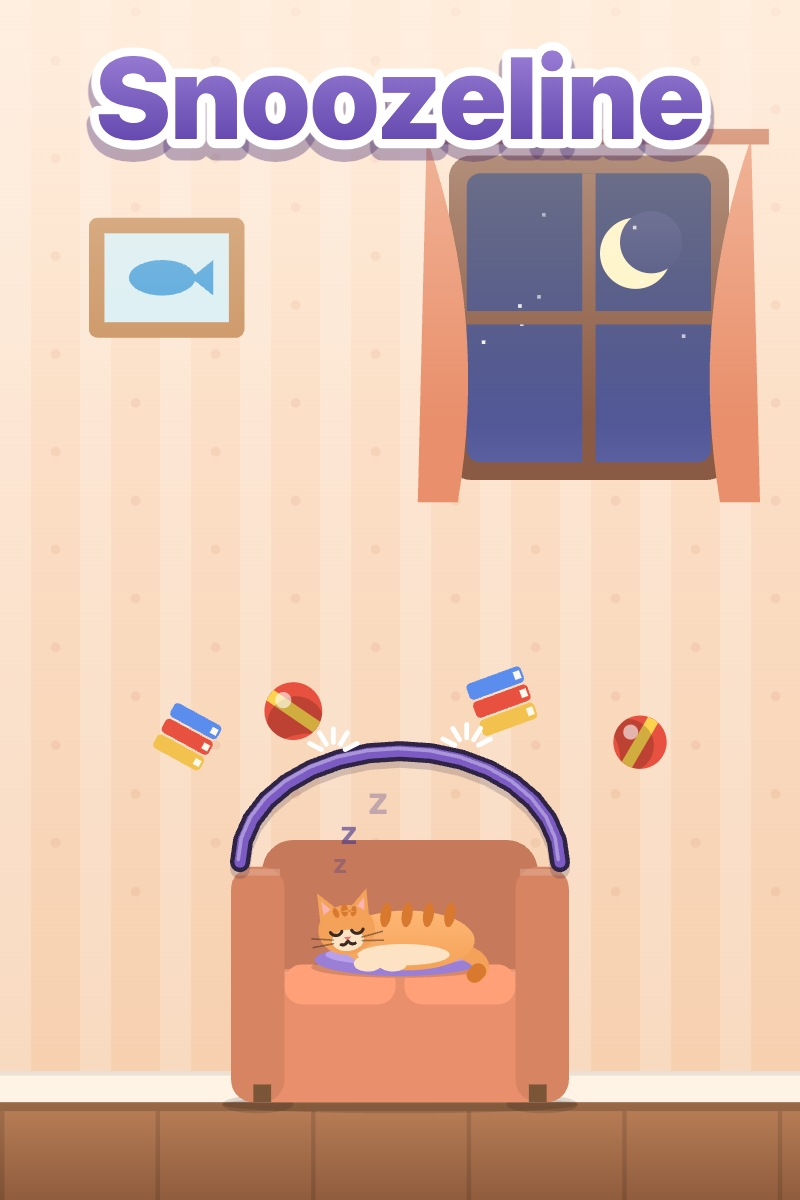
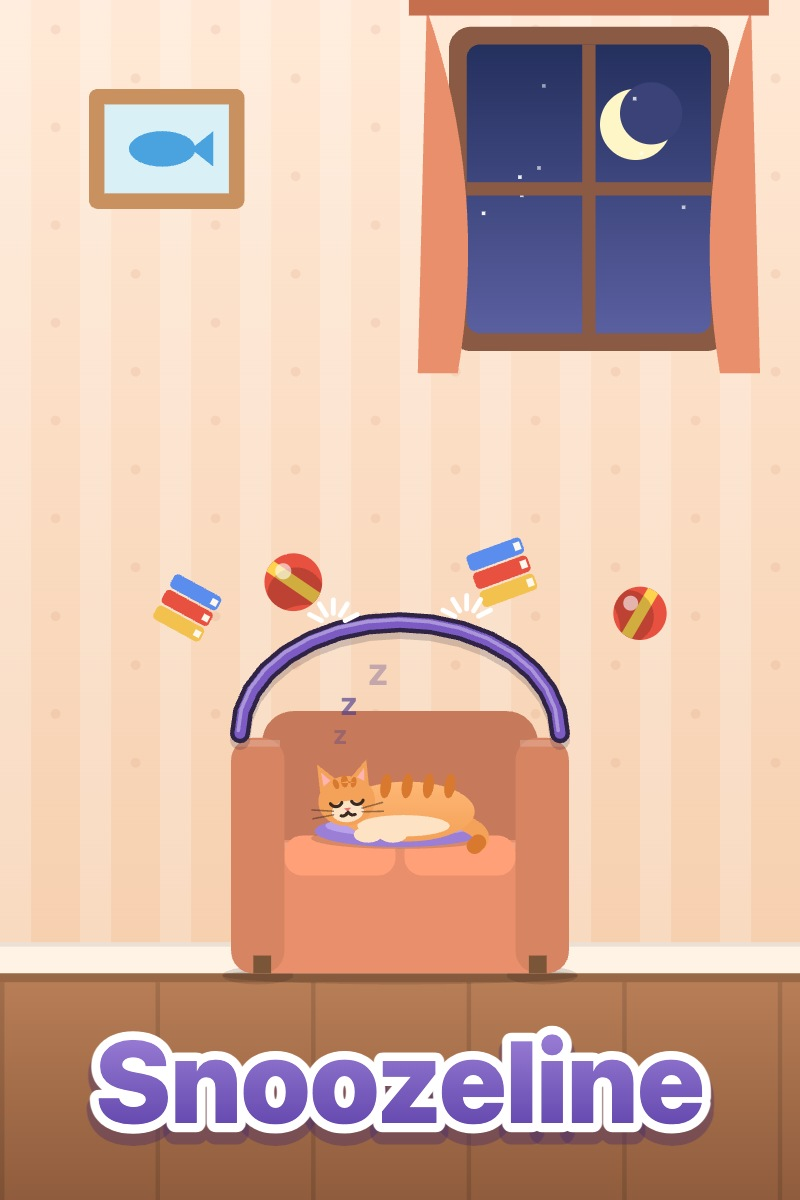
CrazyGames covers: title below their badge zone

diff --git a/promo/cover.html b/promo/cover.html
@@ -11,7 +11,10 @@
   var SLOTS = {
     square: { w: 800, h: 800, cx: 180, cy: 446, vh: 330, ty: 0.12, ts: 0.13 },
     portrait: { w: 1080, h: 1920, cx: 180, cy: 330, vh: 600, ty: 0.072, ts: 0.12 },
-    portrait23: { w: 800, h: 1200, cx: 180, cy: 322, vh: 540, ty: 0.085, ts: 0.12 }, // CrazyGames 2:3
+    // CrazyGames puts its badges (NEW, HOT...) in the top-left corner ("label zone"): their title sits on the floor instead
+    portrait23: { w: 800, h: 1200, cx: 180, cy: 380, vh: 540, ty: 0.905, ts: 0.12 },
+    cg_square: { w: 800, h: 800, cx: 180, cy: 466, vh: 360, ty: 0.9, ts: 0.13 },
+    cg_landscape: { w: 1920, h: 1080, cx: 180, cy: 463, vh: 360, ty: 0.915, ts: 0.11 },
     landscape: { w: 1920, h: 1080, cx: 180, cy: 450, vh: 340, ty: 0.12, ts: 0.11 }
   };
   function scene(ctx) {
@@ -59,13 +62,15 @@
     scene(ctx);
     ctx.setTransform(1, 0, 0, 1, 0, 0);
     // soft vignette so the title reads well
-    var vg = ctx.createLinearGradient(0, 0, 0, s.h * 0.35); vg.addColorStop(0, 'rgba(255,240,225,.55)'); vg.addColorStop(1, 'rgba(255,240,225,0)');
-    ctx.fillStyle = vg; ctx.fillRect(0, 0, s.w, s.h * 0.35);
+    if (s.ty < 0.5) {
+      var vg = ctx.createLinearGradient(0, 0, 0, s.h * 0.35); vg.addColorStop(0, 'rgba(255,240,225,.55)'); vg.addColorStop(1, 'rgba(255,240,225,0)');
+      ctx.fillStyle = vg; ctx.fillRect(0, 0, s.w, s.h * 0.35);
+    }
     title(ctx, c, s);
     c.id = name; document.body.appendChild(c);
     return c;
   }
-  var out = ['square', 'portrait', 'landscape', 'portrait23'].map(render);
+  var out = ['square', 'portrait', 'landscape', 'portrait23', 'cg_square', 'cg_landscape'].map(render);
   var m = /[?&]send=([^&]+)/.exec(location.search);
   if (m) {
     var target = decodeURIComponent(m[1]);

diff --git a/build.py b/build.py
@@ -11,7 +11,7 @@ subprocess.run('cd dist/zip && zip -qr ../snoozeline-playgama.zip .', shell=True
 # CrazyGames: the same build (Bridge detects the platform and loads the CrazyGames SDK itself) plus their covers
 subprocess.run('cd dist/zip && zip -qr ../snoozeline-crazygames.zip .', shell=True, check=True)
 os.makedirs('dist/crazygames-covers')
-for src, dst in [('cover_landscape.jpg', 'landscape_1920x1080.jpg'), ('cover_portrait23.jpg', 'portrait_800x1200.jpg'), ('cover_square.jpg', 'square_800x800.jpg'),
+for src, dst in [('cover_cg_landscape.jpg', 'landscape_1920x1080.jpg'), ('cover_portrait23.jpg', 'portrait_800x1200.jpg'), ('cover_cg_square.jpg', 'square_800x800.jpg'),
                  ('preview_landscape_1920x1080.mp4', 'video_landscape_1920x1080.mp4'), ('preview_portrait_1080x1620.mp4', 'video_portrait_1080x1620.mp4')]:
     if os.path.exists('promo/' + src): shutil.copy('promo/' + src, 'dist/crazygames-covers/' + dst)
 d = 'dist/zip/'; h = open(d + 'index.html').read()

diff --git a/CLAUDE.md b/CLAUDE.md
@@ -43,7 +43,7 @@ Sim resets Matter's body ids per level (deterministic per engine). Chaos world: 
 ## CrazyGames
 - build.py also writes dist/snoozeline-crazygames.zip (same files: Bridge detects crazy_games and loads their SDK v3 itself) and dist/crazygames-covers/ (1920x1080, 800x1200, 800x800 from promo/cover.html). Upload is done by the owner on developer.crazygames.com.
 - Their rules handled in code via P.id === 'crazy_games': no interstitial on the result-screen Menu button (no ads on navigation). level_paused/level_resumed are sent for settings during a level and when leaving a level for the menu (Bridge relays them as gameplayStop/Start). Leaderboard is hidden there (type not_available).
-- Covers must have NO alpha channel (CrazyGames rejects PNGs with transparency): promo/cover.html draws on an opaque canvas and also writes JPGs; the CrazyGames folder uses the JPGs. Preview videos (17.4 s, no audio, 1920x1080 and 1080x1620) come from promo/video.html (frames rendered with the real sim) + promo/encode.swift (AVFoundation H.264).
+- Covers must have NO alpha channel (CrazyGames rejects PNGs with transparency): promo/cover.html draws on an opaque canvas and also writes JPGs; the CrazyGames folder uses the JPGs; its square and landscape covers (cg_*) and the 2:3 one keep the title at the bottom, away from the top-left "label zone" where CrazyGames puts NEW/HOT badges. Preview videos (17.4 s, no audio, 1920x1080 and 1080x1620) come from promo/video.html (frames rendered with the real sim) + promo/encode.swift (AVFoundation H.264).
 - Test locally with `?platform_id=crazy_games` (CrazyGames SDK runs in its local environment).
 
 ## Open items
